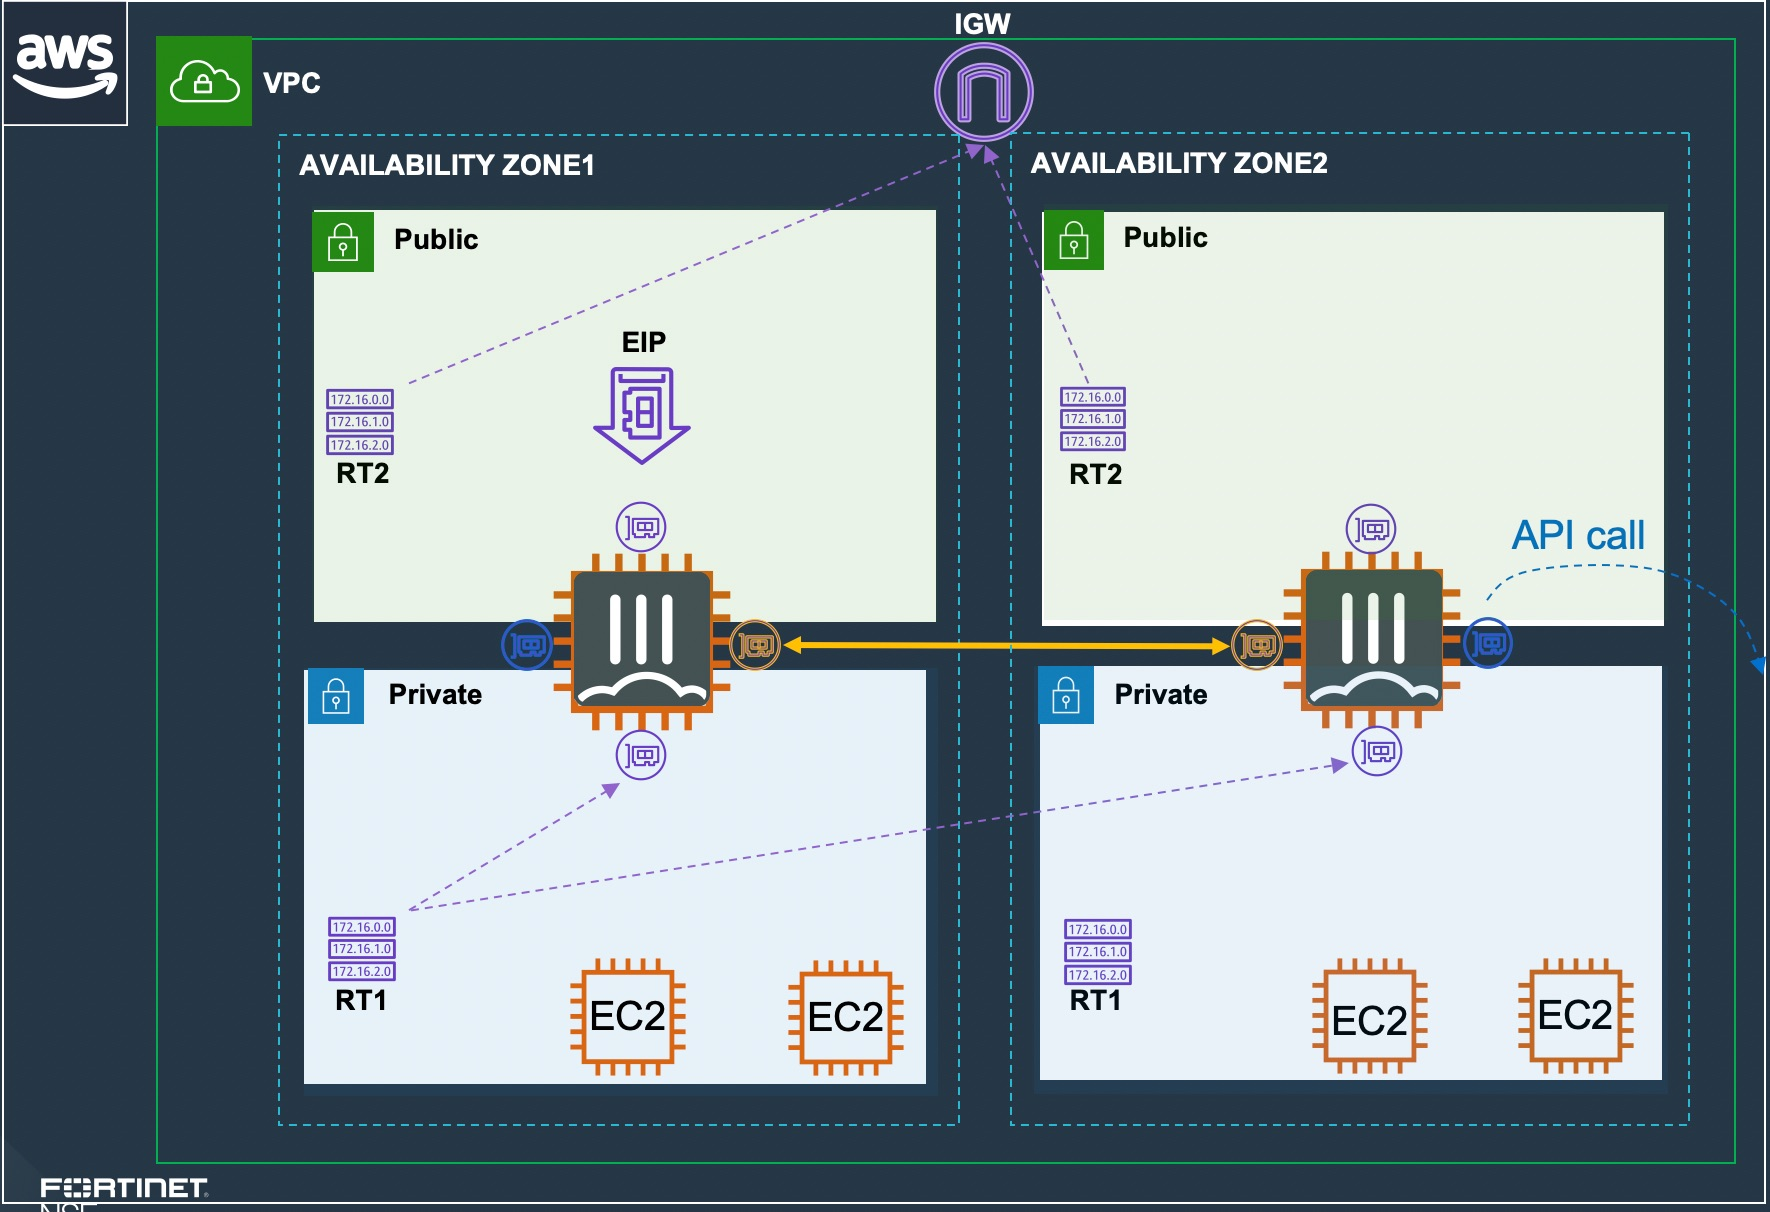
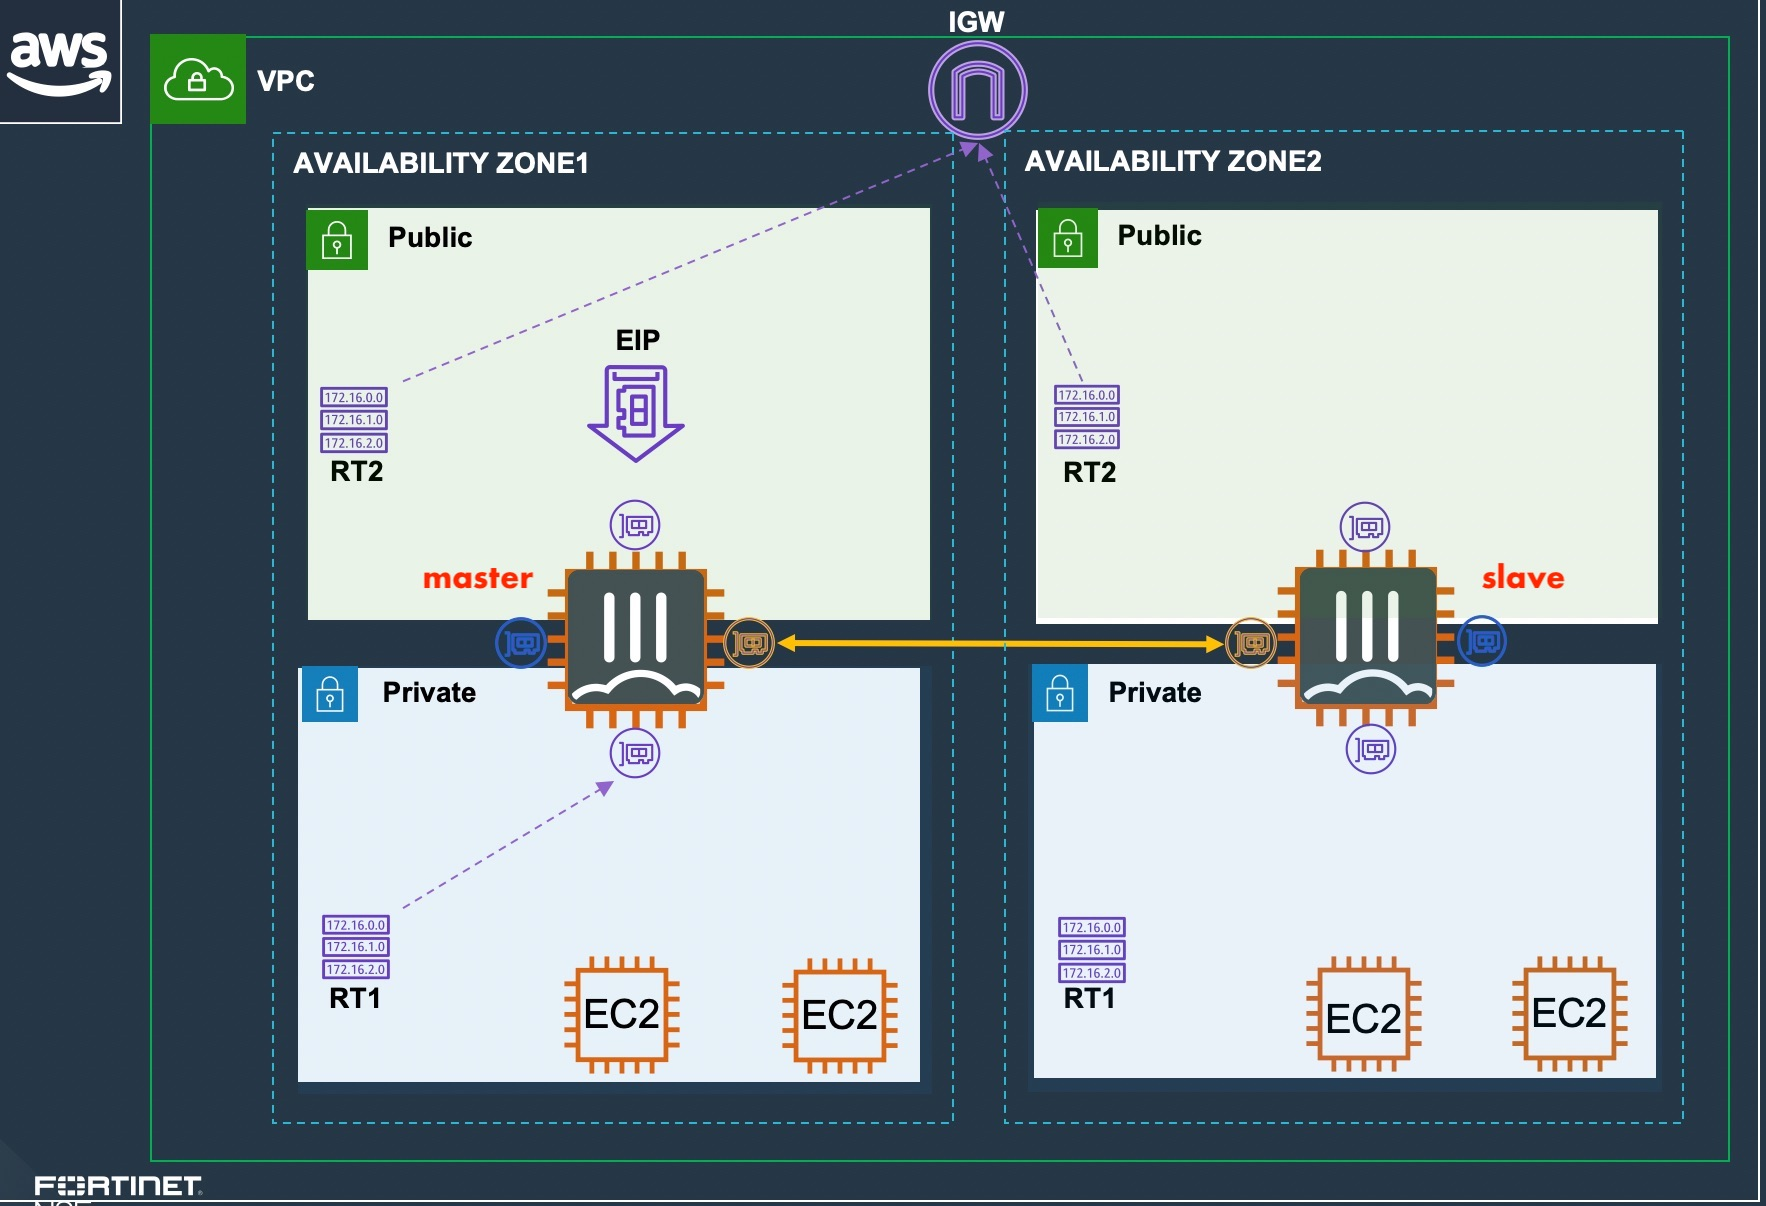
send images

diff --git a/FortiGate/Active-Passive-Multi-Zone/README.md b/FortiGate/Active-Passive-Multi-Zone/README.md
@@ -21,7 +21,7 @@ The templates can deploy devices in PAYG (on demand) or BYOL (you provide the li
 The templates will deploy a solution containing the following components.
   - 2 FortiGate firewall's in an active/passive deployment
   - (with newVPC behaviour) 1 VPC with 4 protected subnets (1 private, 1 Public in 2 zones) and 4 subnets required for the FortiGate deployment (ha and management in 2 zones). If using an existing VPC, it must already have 8 subnets
-  - 3 public IPs. The first public IP is for cluster access to/through the active FortiGate.  The other two PIPs are for Management access which are also used for API calls.
+  - 3 public IPs. The first public IP is for cluster access to/through the active FortiGate.  The other two PIPs are for Management access (Management access is used to make API calls to modify the infrastructure).
 
 ![active/passive design](images/fgt-ha.png)
 
@@ -46,6 +46,31 @@ The solution is considered as cloud native because it already embedds all the ne
 FGCP HA provides AWS networks with enhanced reliability through device fail-over protection, link fail-over protection, and remote link fail-over protection. In addition, reliability is further enhanced with session fail-over protection for most IPv4 and IPv6 sessions including TCP, UDP, ICMP, IPsec\SSL VPN, and NAT sessions.
 A FortiGate FGCP cluster appears as a single logical FortiGate instance and configuration synchronization allows you to configure a cluster in the same way as a standalone FortiGate unit. If a fail-over occurs, the cluster recovers quickly and automatically and can also send notifications to administrator so that the problem that caused the failure can be corrected and any failed resources restored.
 
+The FortiGates are configured to use the unicast version of FGCP by applying the configuration below on both the master and slave FortiGate instances. This configuration is automatically configured and bootstrapped to the instances when deployed by the provided CloudFormation Templates.
+
+- Number of ports and associated roles :
+
+The FortiGate instances will use multiple interfaces for data plane and control plane traffic to achieve FGCP clustering in an AWS VPC. The FortiGate instances require four ENIs for this solution to work as designed so make sure to use an AWS EC2 instance type that supports this. Reference AWS Documentation for further information on this.
+
+For data plane functions the FortiGates will use two dedicated ENIs, one for a public interface (ie ENI0\port1) and another for a private interface (ie ENI1\port2). These ENIs will utilize primary IP addressing and FortiOS will not sync the interface configuration (config system interface) or static routes (config router static) as these FGTs are in separate subnets. Thus when configuring these items, you should do so individually on both FortiGates.
+
+A cluster EIP will be associated to the primary IP of the public interface (ie ENI0\port1) of the current master FortiGate instance and will be reassociated to a new master FortiGate instance as well.
+
+For control plane functions, the FortiGates will use a dedicated ENI (ie ENI2\port3) for FGCP HA communication to perform tasks such as heartbeat checks, configuration sync, and session sync. A dedicated ENI is used as this is best practice for FGCP as it ensures the FortiGate instances have ample bandwidth for all critical HA communications.
+
+The FortiGates will also use another dedicated ENI (ie ENI3\port4) for HA management access to each instance and also allow each instance to independently and directly communicate with the public AWS EC2 API. This dedicated interface is critical to failing over AWS SDN properly when a new FGCP HA master is elected and is the only method of access available to the current slave FortiGate instance.
+
+- how it works:
+
+The FortiGate instances will make calls to the public AWS EC2 API to update AWS SDN to failover both inbound and outbound traffic flows to the new master FortiGate instance. There are a few components that make this possible.
+
+FortiOS will assume IAM permissions to access the AWS EC2 API by using the IAM instance role attached to the FortiGate instances. The instance role is what grants the required permissions for FortiOS to:
+
+  - Reassign cluster EIPs assigned to primary IPs assigned to the data plane ENIs
+  - Update existing routes to target the new master instance ENIs
+
+The FortiGate instances will utilize their independent and direct internet access available through the FGCP HA management interface (ie ENI3\port4) to access the public AWS EC2 API. It is critical that this ENI is in a public subnet with an EIP assigned so that each instance has independent and direct access to the internet or the AWS SDN will not reference the current master FortiGate instance which will break data plane traffic.
+
 For further information on FGCP reference the High Availability chapter in the FortiOS Handbook on the Fortinet Documentation site.
 
 Note: Other Fortinet solutions for AWS such as FGCP HA (Single AZ), AutoScaling, and Transit Gateway are available. Please visit www.fortinet.com/aws for further information.
@@ -59,7 +84,17 @@ The FortiGate solution can be deployed using the AWS console in Services > Cloud
 ![cloudformation form3](images/form-3.png)
 ![cloudformation form4](images/form-4.png)
 
+# Failover process
 
+The following network diagram will be used to illustrate a failover event from the current master FortiGate (FortiGate A), to the current slave FortiGate (FortiGate B).
+
+Inbound failover is provided by reassigning the EIPs associated to the primary IP address of ENI0\port1 from FortiGate A's public interface to FortiGate B's public interface.
+
+Outbound failover is provided updating any route targets referencing FortiGate A’s private interface reference FortiGate B’s private interface.
+
+The AWS SDN is updated by FortiGate 2 initiating API calls from the dedicated HA management interface (ie ENI3\port4) through the AWS Internet Gateway.
+
+![failover design](images/failover.png)
 
 # Requirements and limitations
 
